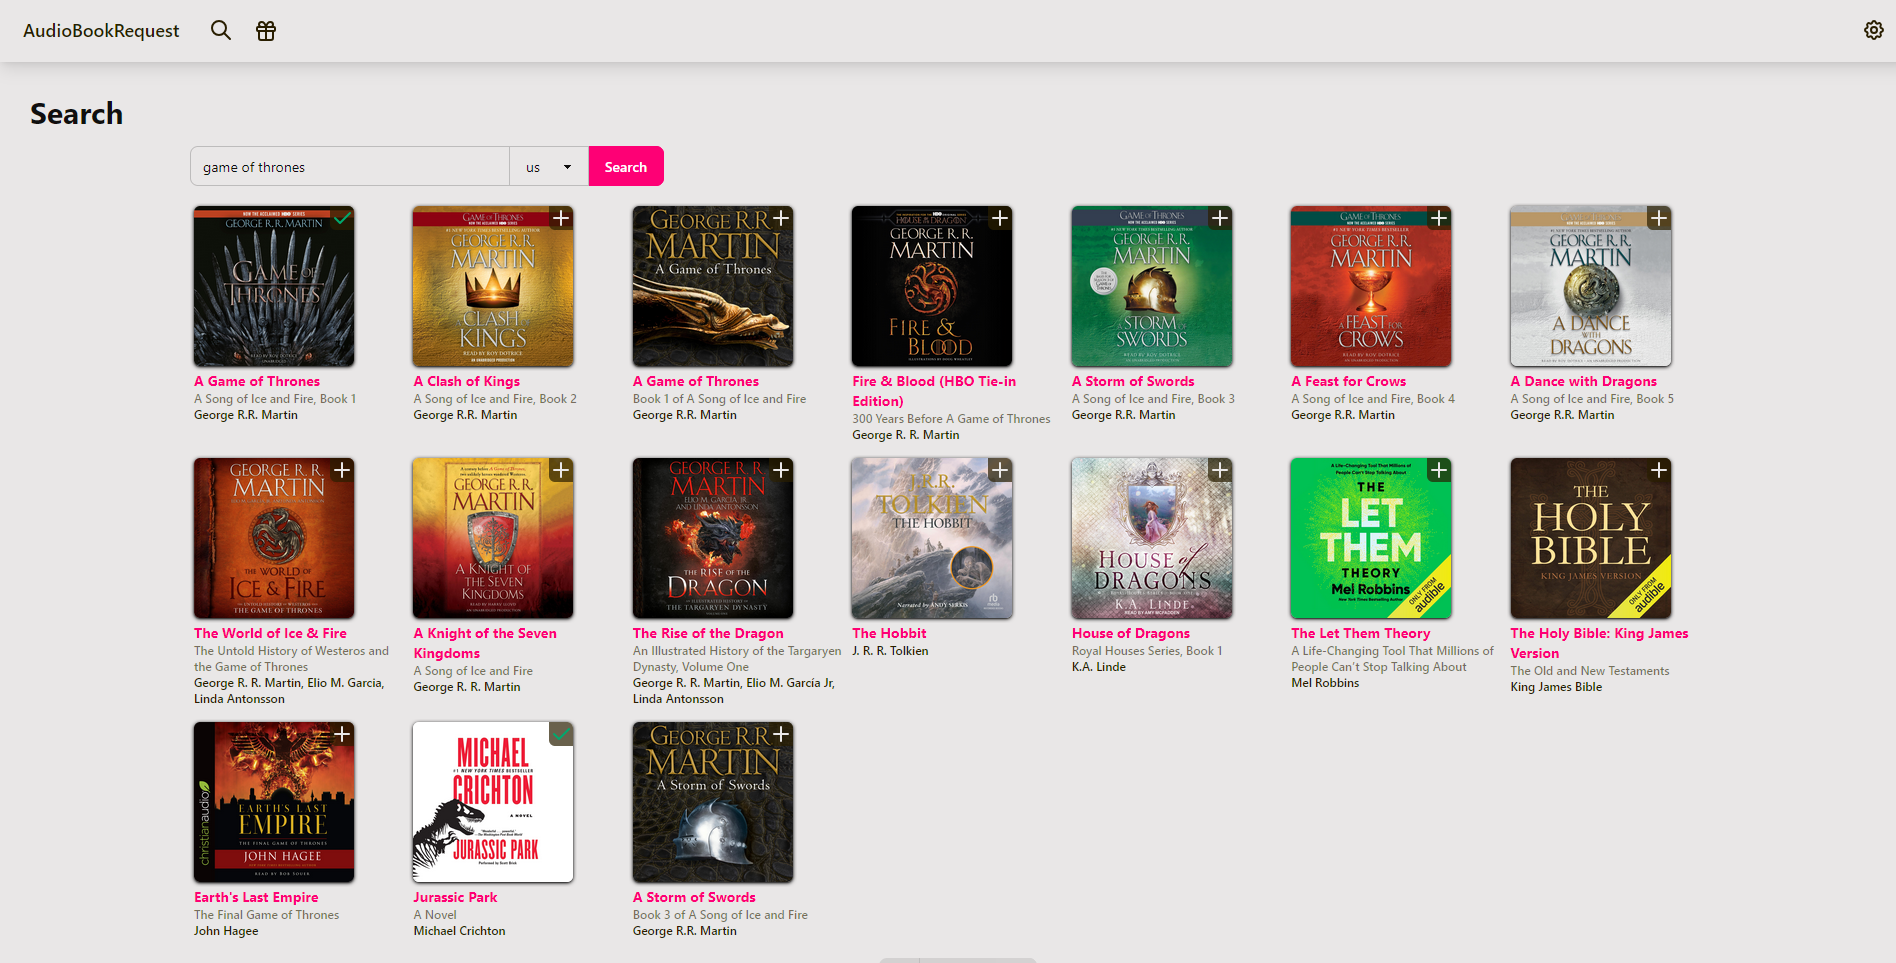
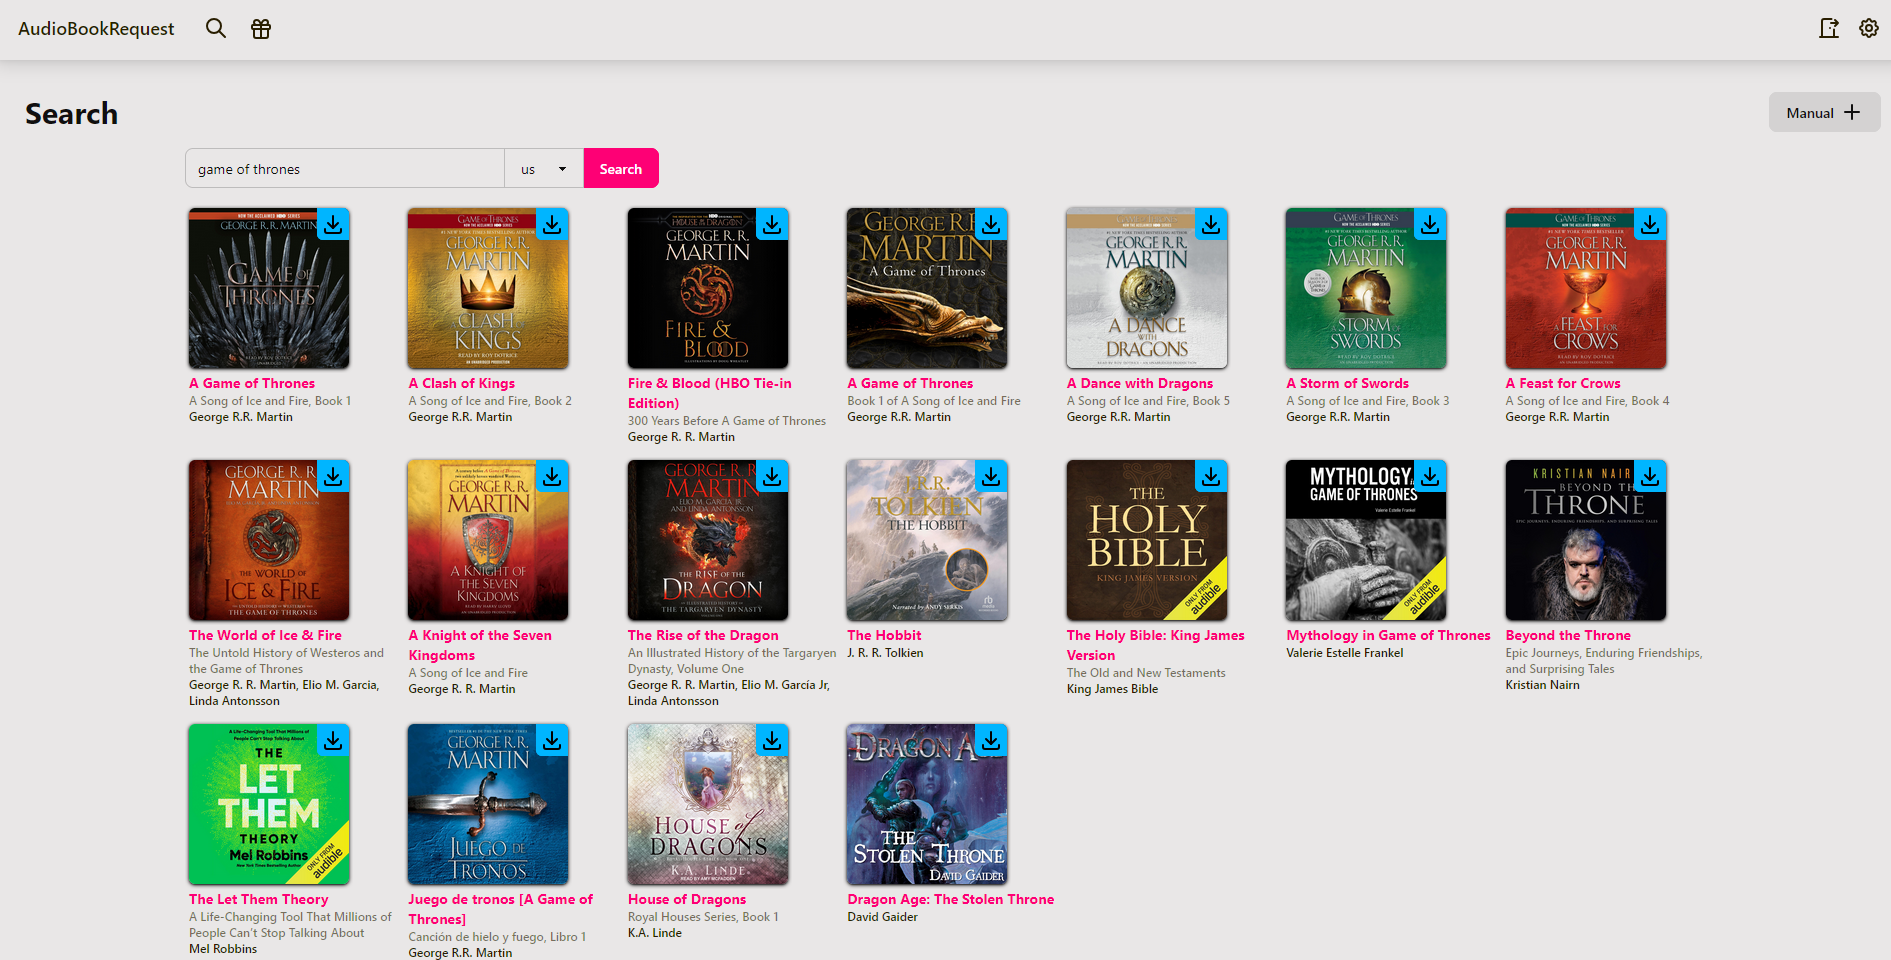
mobile friendly + update readme

diff --git a/templates/search.html b/templates/search.html
@@ -16,7 +16,7 @@
 </script>
 {% endblock %} {% block body %}
 <div
-  class="w-screen flex flex-col items-center justify-center p-8 overflow-x-hidden gap-4"
+  class="w-screen flex flex-col items-center justify-center p-6 sm:p-8 overflow-x-hidden gap-4"
 >
   <div class="flex w-full justify-between items-center">
     <h1 class="text-3xl font-bold text-left">Search</h1>
@@ -40,7 +40,10 @@
         {% if not search_term %}autofocus{% endif %}
         value="{{ search_term }}"
       />
-      <select class="select join-item max-w-[5rem]" name="region">
+      <select
+        class="select join-item max-w-[4rem] sm:max-w-[5rem]"
+        name="region"
+      >
         {% for region in regions %}
         <!-- prettier-ignore -->
         <option
@@ -60,12 +63,12 @@
     {% block book_results %}
     <div
       id="book-results"
-      class="min-w-[60vw] max-w-[80vw] h-full grid gap-1 gap-y-2 sm:gap-y-4 sm:gap-2 p-1 grid-flow-row grid-cols-2 sm:grid-cols-3 lg:grid-cols-4 xl:grid-cols-6 2xl:grid-cols-7"
+      class="min-w-[60vw] max-w-[90vw] sm:max-w-[80vw] h-full grid gap-1 gap-y-2 sm:gap-y-4 sm:gap-2 p-1 grid-flow-row grid-cols-2 sm:grid-cols-3 lg:grid-cols-4 xl:grid-cols-6 2xl:grid-cols-7"
     >
       {% for book in search_results %}
       <div class="flex flex-col">
         <div
-          class="relative w-[10rem] h-[10rem] rounded-md overflow-hidden shadow shadow-black items-center justify-center flex"
+          class="relative w-[8rem] h-[8rem] sm:w-[10rem] sm:h-[10rem] rounded-md overflow-hidden shadow shadow-black items-center justify-center flex"
         >
           {% if book.cover_image %}
           <img

diff --git a/templates/base.html b/templates/base.html
@@ -22,7 +22,13 @@
     <header class="bg-base-100 text-neutral shadow-lg">
       <nav class="navbar">
         <div class="flex-1">
-          <a preload href="/" class="btn btn-ghost text-lg">AudioBookRequest</a>
+          <a
+            preload
+            href="/"
+            class="btn btn-ghost text-lg hidden sm:inline-flex"
+            >AudioBookRequest</a
+          >
+          <a preload href="/" class="btn btn-ghost text-lg sm:hidden">ABR</a>
 
           <a
             preload

diff --git a/app/util/notifications.py b/app/util/notifications.py
@@ -3,7 +3,38 @@ from aiohttp import ClientSession
 from sqlmodel import select
 
 from app.db import open_session
-from app.models import BookRequest, Notification
+from app.models import BookRequest, ManualBookRequest, Notification
+
+
+def create_title_body(
+    title_template: str,
+    body_template: str,
+    username: Optional[str] = None,
+    book_title: Optional[str] = None,
+    book_authors: Optional[str] = None,
+    book_narrators: Optional[str] = None,
+    event_type: Optional[str] = None,
+):
+    title = title_template
+    body = body_template
+
+    if username:
+        title = title.replace("{eventUser}", username)
+        body = body.replace("{eventUser}", username)
+    if book_title:
+        title = title.replace("{bookTitle}", book_title)
+        body = body.replace("{bookTitle}", book_title)
+    if book_authors:
+        title = title.replace("{bookAuthors}", book_authors)
+        body = body.replace("{bookAuthors}", book_authors)
+    if book_narrators:
+        title = title.replace("{bookNarrators}", book_narrators)
+        body = body.replace("{bookNarrators}", book_narrators)
+    if event_type:
+        title = title.replace("{eventType}", event_type)
+        body = body.replace("{eventType}", event_type)
+
+    return title, body
 
 
 async def send_notification(
@@ -13,27 +44,27 @@ async def send_notification(
 ):
     with open_session() as session:
         async with ClientSession() as client_session:
-            title = notification.title_template
-            body = notification.body_template
-
-            if requester_username:
-                title = title.replace("{eventUser}", requester_username)
-                body = body.replace("{eventUser}", requester_username)
-
+            book_title = None
+            book_authors = None
+            book_narrators = None
             if book_asin:
                 book = session.exec(
                     select(BookRequest).where(BookRequest.asin == book_asin)
                 ).first()
                 if book:
-                    title = title.replace("{bookTitle}", book.title)
-                    body = body.replace("{bookTitle}", book.title)
-                    title = title.replace("{bookAuthors}", ",".join(book.authors))
-                    body = body.replace("{bookAuthors}", ",".join(book.authors))
-                    title = title.replace("{bookNarrators}", ",".join(book.narrators))
-                    body = body.replace("{bookNarrators}", ",".join(book.narrators))
+                    book_title = book.title
+                    book_authors = ",".join(book.authors)
+                    book_narrators = ",".join(book.narrators)
 
-            title = title.replace("{eventType}", notification.event.value)
-            body = body.replace("{eventType}", notification.event.value)
+            title, body = create_title_body(
+                notification.title_template,
+                notification.body_template,
+                requester_username,
+                book_title,
+                book_authors,
+                book_narrators,
+                notification.event.value,
+            )
 
             async with client_session.post(
                 notification.apprise_url,
@@ -45,3 +76,37 @@ async def send_notification(
             ) as response:
                 response.raise_for_status()
                 return await response.json()
+
+
+async def send_manual_notification(
+    notification: Notification,
+    book: ManualBookRequest,
+    requester_username: Optional[str] = None,
+):
+    print("SENDING", "CALLED")
+    try:
+        async with ClientSession() as client_session:
+            title, body = create_title_body(
+                notification.title_template,
+                notification.body_template,
+                requester_username,
+                book.title,
+                ",".join(book.authors),
+                ",".join(book.narrators),
+                notification.event.value,
+            )
+            print("SENDING", title, body)
+
+            async with client_session.post(
+                notification.apprise_url,
+                json={
+                    "title": title,
+                    "body": body,
+                },
+                headers=notification.headers,
+            ) as response:
+                response.raise_for_status()
+                return await response.json()
+    except Exception as e:
+        print("SENDING", e)
+        return None

diff --git a/app/routers/search.py b/app/routers/search.py
@@ -31,7 +31,7 @@ from app.util.book_search import (
     list_audible_books,
 )
 from app.util.connection import get_connection
-from app.util.notifications import send_notification
+from app.util.notifications import send_manual_notification, send_notification
 from app.util.ranking.quality import quality_config
 from app.util.templates import template_response
 
@@ -188,6 +188,7 @@ async def add_manual(
     request: Request,
     user: Annotated[DetailedUser, Depends(get_authenticated_user())],
     session: Annotated[Session, Depends(get_session)],
+    background_task: BackgroundTasks,
     title: Annotated[str, Form()],
     author: Annotated[str, Form()],
     narrator: Annotated[Optional[str], Form()] = None,
@@ -205,7 +206,20 @@ async def add_manual(
         additional_info=info,
     )
     session.add(book_request)
+    session.flush()
+    session.expunge_all()  # so that we can pass down the object without the session
     session.commit()
+
+    notifications = session.exec(
+        select(Notification).where(Notification.event == EventEnum.on_new_request)
+    ).all()
+    for notif in notifications:
+        background_task.add_task(
+            send_manual_notification,
+            notification=notif,
+            book=book_request,
+            requester_username=user.username,
+        )
 
     return template_response(
         "manual.html",

diff --git a/app/util/ranking/quality.py b/app/util/ranking/quality.py
@@ -79,7 +79,7 @@ class QualityProfile(StringConfigCache[QualityConfigKey]):
             self.delete(session, key)
 
     def get_auto_download(self, session: Session) -> bool:
-        return bool(self.get_int(session, "quality_auto_download", 1))
+        return bool(self.get_int(session, "quality_auto_download", 0))
 
     def set_auto_download(self, session: Session, auto_download: bool):
         self.set_int(session, "quality_auto_download", int(auto_download))

diff --git a/README.md b/README.md
@@ -1,8 +1,5 @@
 # AudioBookRequest
 
-> [!CAUTION]
-> This project is in its very early stages. It's basically a weekend project at this state. There might be some bugs or unfinished parts.
-
 Your tool for handling audiobook requests on a Plex/AudioBookShelf/Jellyfin instance.
 
 If you've heard of Overseer, Ombi, or Jellyseer; this is in the similar vein, <ins>but for audiobooks</ins>.
@@ -11,9 +8,10 @@ If you've heard of Overseer, Ombi, or Jellyseer; this is in the similar vein, <i
 
 # Workflow
 
-1. Admin creates user accounts for their friends. Each account's group is one of: `Admin`, `Trusted`, and `Untrusted`. All groups can request/remove book requests. Trusted and above can have downloads automatically start when they select a book in the search tab. This requires the download client to be set up correctly in Prowlarr.
-2. The requests/wishlist page shows a list of all books that have been requested. An admin can directly view the torrent sources gotten from Prowlarr and start any download.
-3. Settings page allows for admins to create new accounts and set the required Prowlarr configs.
+1. Admin creates user accounts for their friends. Each account's group is one of: `Admin`, `Trusted`, and `Untrusted`. All groups can request/remove book requests.
+2. When a Trusted and above requests a book, it'll automatically start downloading. This requires the download client to be set up correctly in Prowlarr and the "Auto Download" option to be on in the settings.
+3. If configured, a notification will be sent to Apprise.
+4. The requests/wishlist page shows a list of all books that have been requested. An admin can directly view the torrent sources gotten from Prowlarr and start downloading requests or reject them.
 
 # Docker
 
